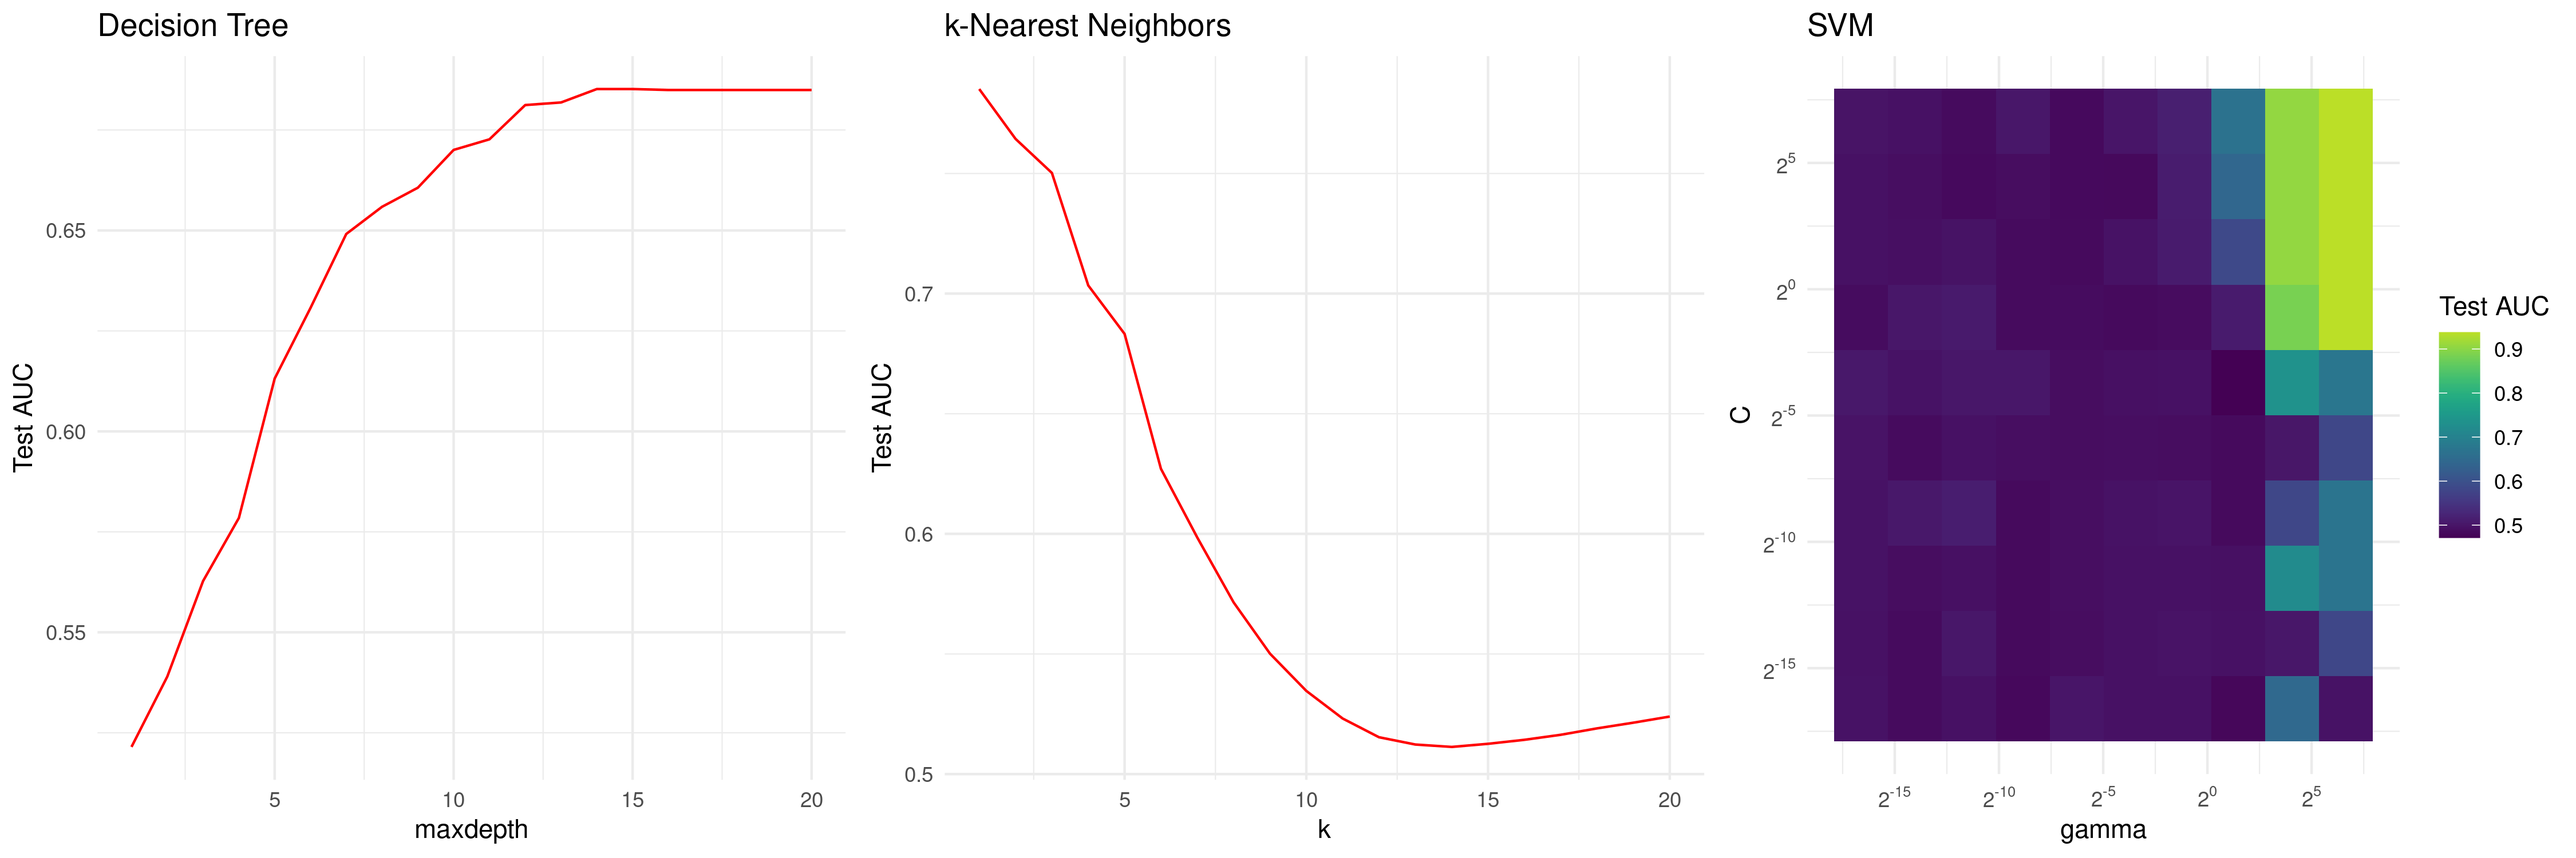
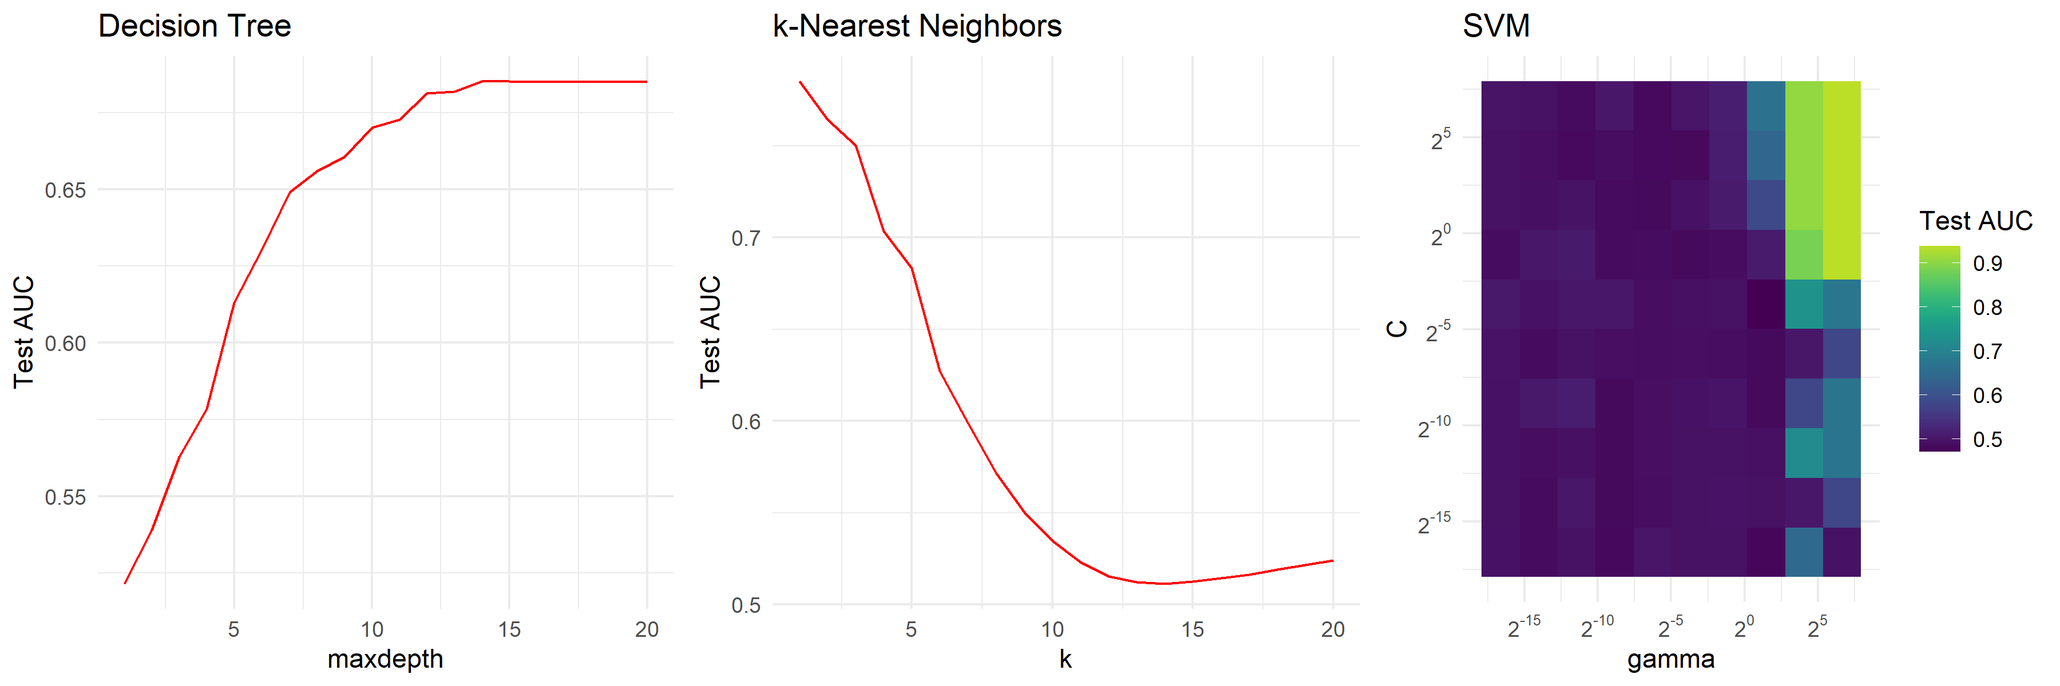
Increased text size for tuning_importance.png and updated description for the intro slide.

diff --git a/slides/tuning/slides-tuning-intro.tex b/slides/tuning/slides-tuning-intro.tex
@@ -60,7 +60,8 @@ $$
 
 \begin{itemize}
 \item But many ML algorithms are sensitive w.r.t. a good setting of their hyperparameters,
-  and generalization performance might be bad if we have chosen a suboptimal configuration:
+  and generalization performance might be bad if we have chosen a suboptimal configuration.
+\item We motivate the importance of tuning via a simulation example of 3 different algorithms: Decision Tree, k-NN and SVM. We use the dataset $mlbench.spiral$ and 10,000 testing points to calculate the measure AUC.  
   
   \begin{center}
 \begin{figure}
